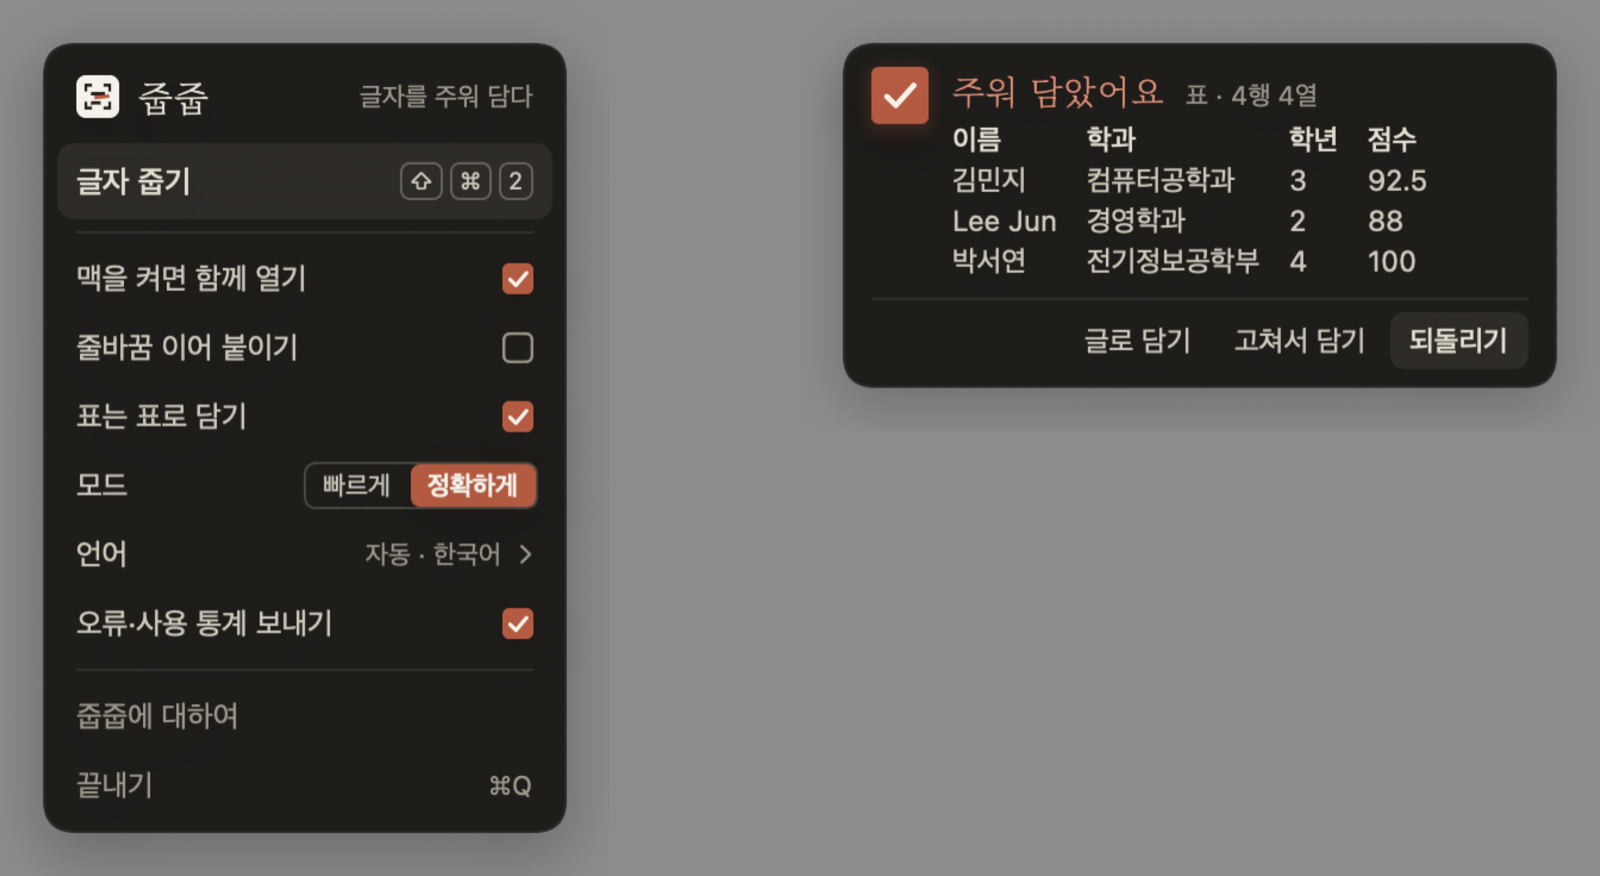
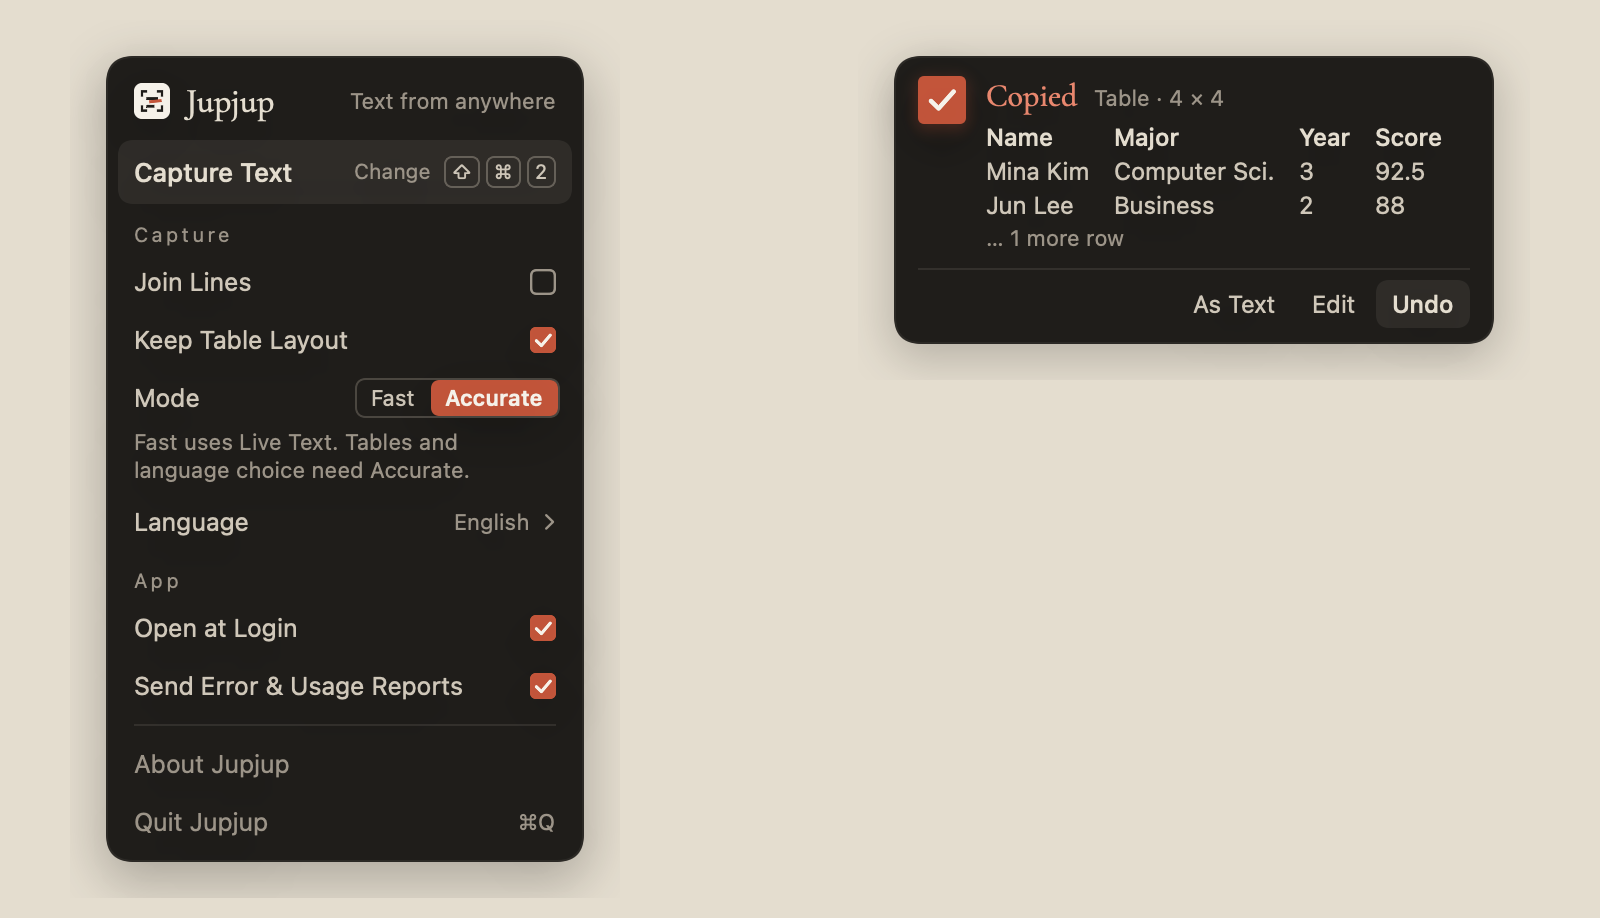
README 그림을 영어로: 영어 README엔 영어, 한국어 README엔 한국어(지금 화면)
- Snapshot: '-lang <코드>'로 밝게·어둡게·안내줄 등을 그 언어로, 끝나면 사용자의 화면 언어·최근 목록을 되돌림. 표 예시도 영어판은 영어 표
- docs/images/hero.png·capture-hint.png 영어로 다시(메뉴 묶음·'바꾸기' 상시 반영), .ko.png 한국어판 추가
- 쓰지 않던 한국어 그림(toasts·onboarding·languages·type, tools/snapshot-*) 삭제

diff --git a/Sources/main.swift b/Sources/main.swift
@@ -691,7 +691,10 @@ struct MenuRow: View {
 @MainActor
 enum Snapshot {
     static func render(to dir: String) {
-        let keepRecent = Settings.shared.recentLanguages
+        let keepRecent = Settings.shared.recentLanguages, keepLang = Settings.shared.language
+        // `-lang en`: 언어별 반복 밖의 그림(밝게·어둡게, 안내줄, 언어 화면 등)을 그 언어로. README 그림용
+        let base: Lang = CommandLine.arguments.firstIndex(of: "-lang").flatMap { i in i + 1 < CommandLine.arguments.count ? Lang(rawValue: CommandLine.arguments[i + 1]) : nil } ?? .auto
+        Settings.shared.language = base
         let sample = Recognizer.recognize(sampleImage())
         let toast = ToastModel()
         toast.result = sample
@@ -731,7 +734,7 @@ enum Snapshot {
             t3.kind = .working; t3.busyCPU = 94
             save(ToastView(model: t3, actions: actions), "\(dir)/busy-\(lang.rawValue).png")
         }
-        Settings.shared.language = .auto
+        Settings.shared.language = base
         NSApp.appearance = NSAppearance(named: .darkAqua)
         let up = MenuState(); up.page = .uiLanguage
         save(MenuView(settings: .shared, state: up, actions: .init(capture: {}, record: {}, about: {}, quit: {})), "\(dir)/lang-list.png")
@@ -758,13 +761,15 @@ enum Snapshot {
         save(AboutView(), "\(dir)/about.png")
         Settings.shared.language = Lang(rawValue: "en")
         save(AboutView(), "\(dir)/about-en.png")
-        Settings.shared.language = .auto
+        Settings.shared.language = base
         let lp = MenuState(); lp.page = .language
         save(MenuView(settings: .shared, state: lp, actions: .init(capture: {}, record: {}, about: {}, quit: {})), "\(dir)/lang-auto.png")
         let st = Settings.shared, keep = (st.ocrManual, st.ocrLanguages)
         st.ocrManual = true; st.ocrLanguages = ["ko-KR", "en-US", "ja-JP"]
         save(MenuView(settings: .shared, state: lp, actions: .init(capture: {}, record: {}, about: {}, quit: {})), "\(dir)/lang-manual.png")
         (st.ocrManual, st.ocrLanguages) = keep
+        Settings.shared.language = keepLang // 사용자가 고른 화면 언어로 되돌린다
+        Settings.shared.recentLanguages = keepRecent
         print(sample.table?.tsv ?? sample.text)
     }
 
@@ -783,7 +788,10 @@ enum Snapshot {
         NSGraphicsContext.saveGraphicsState()
         NSGraphicsContext.current = NSGraphicsContext(bitmapImageRep: rep)
         NSColor.white.setFill(); NSRect(x: 0, y: 0, width: 500, height: 180).fill()
-        let rows = [["이름", "학과", "학년", "점수"], ["김민지", "컴퓨터공학과", "3", "92.5"], ["Lee Jun", "경영학과", "2", "88"], ["박서연", "전기정보공학부", "4", "100"]]
+        // 화면 언어가 한국어가 아니면 영어 표(README·소개 그림용)
+        let rows = Settings.shared.language.resolved.rawValue == "ko"
+            ? [["이름", "학과", "학년", "점수"], ["김민지", "컴퓨터공학과", "3", "92.5"], ["Lee Jun", "경영학과", "2", "88"], ["박서연", "전기정보공학부", "4", "100"]]
+            : [["Name", "Major", "Year", "Score"], ["Mina Kim", "Computer Sci.", "3", "92.5"], ["Jun Lee", "Business", "2", "88"], ["Sara Park", "Physics", "4", "100"]]
         for (i, row) in rows.enumerated() {
             for (j, c) in row.enumerated() {
                 (c as NSString).draw(at: NSPoint(x: [20, 150, 320, 400][j], y: 140 - CGFloat(i) * 36), withAttributes: [.font: NSFont.systemFont(ofSize: 15)])

diff --git a/README.ko.md b/README.ko.md
@@ -23,7 +23,7 @@
 </p>
 
 <p align="center">
-  <img src="docs/images/hero.png" width="760" alt="줍줍 메뉴와 표로 담은 알림">
+  <img src="docs/images/hero.ko.png" width="760" alt="줍줍 메뉴와 표로 담은 알림">
 </p>
 
 ## 왜 줍줍인가요
@@ -51,7 +51,7 @@
 | **바쁨 경고** | CPU가 바빠 느려질 것 같으면 미리 알려 줘요 |
 
 <p align="center">
-  <img src="docs/images/capture-hint.png" width="760" alt="고르기 안내줄과 모드 키">
+  <img src="docs/images/capture-hint.ko.png" width="760" alt="고르기 안내줄과 모드 키">
 </p>
 
 ## 설치
